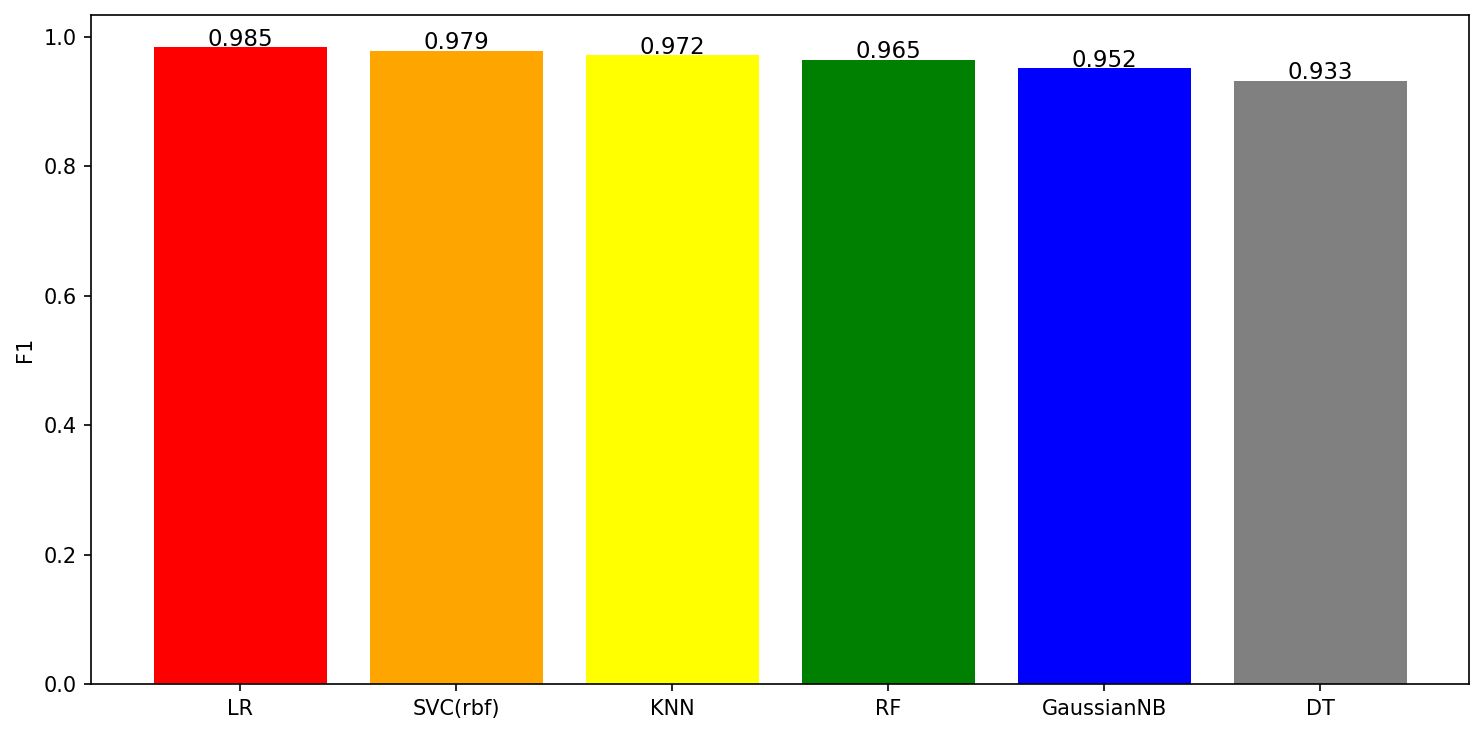
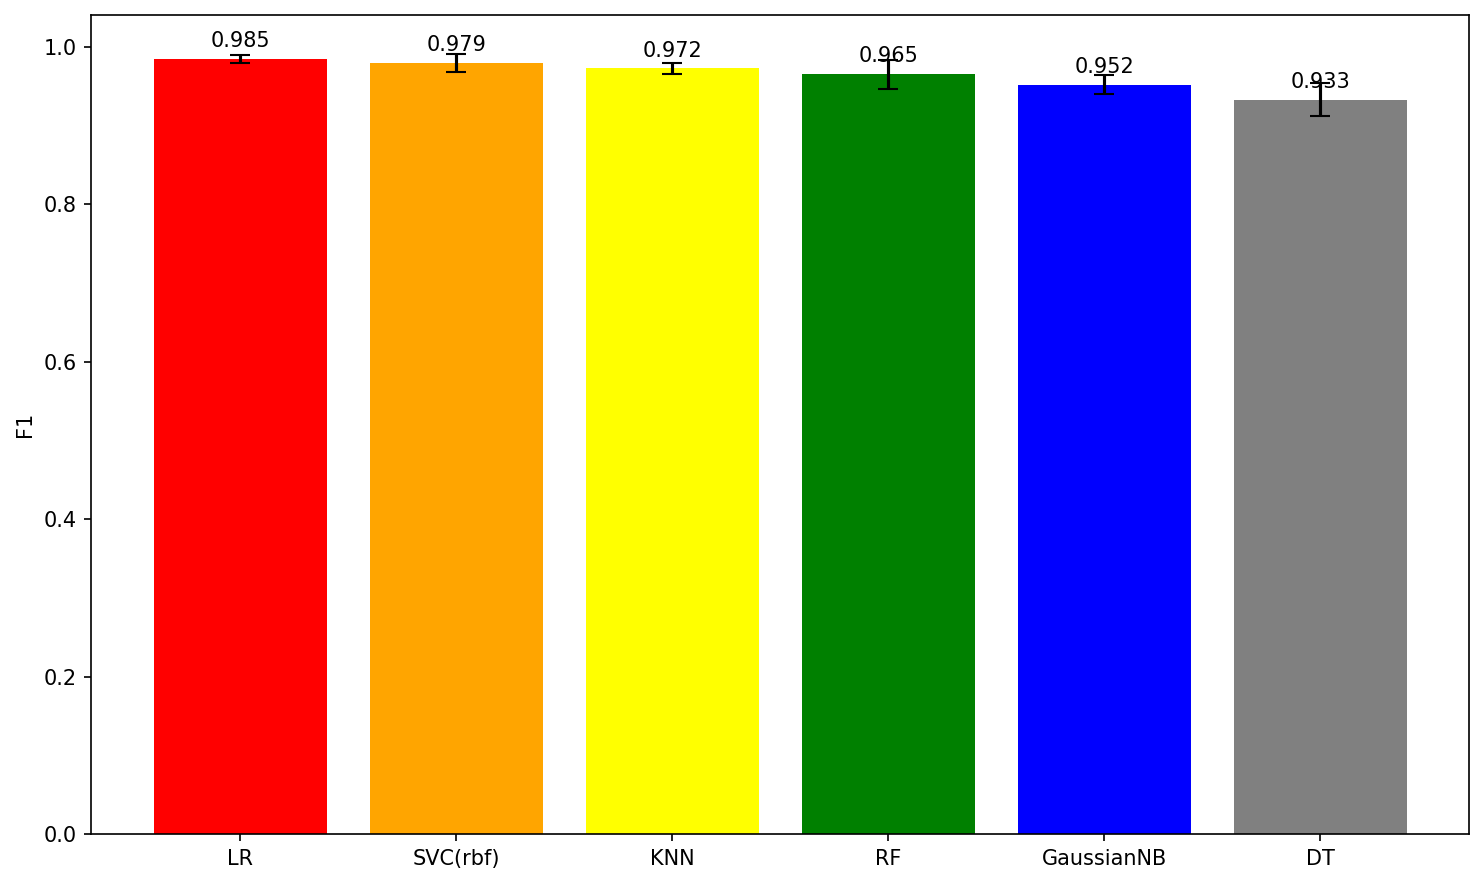
11 revised & 12 ridege/lasso

diff --git a/sklearn/sklearn12 lr+.py b/sklearn/sklearn12 lr+.py
@@ -1,0 +1,38 @@
+from sklearn.datasets import load_diabetes
+from sklearn.preprocessing import StandardScaler
+from sklearn.linear_model import Ridge, LinearRegression
+import numpy as np
+from sklearn.linear_model import Lasso
+
+#ex1: Ridge压缩系数
+X, y = load_diabetes(return_X_y=True)
+Xs = StandardScaler().fit_transform(X)
+lr = LinearRegression().fit(Xs, y)
+print(f'LR max |coef|: {abs(lr.coef_).max():.1f}')#.coef_是系数的数组
+for alpha in [0.01, 0.1, 1, 10, 100]:#0.01系数max abs =37.6，100时21.4
+    ridge = Ridge(alpha=alpha).fit(Xs, y)
+    nz = np.sum(np.abs(ridge.coef_) > 1e-6)
+    print(f'alpha={alpha:6.1f}: max|coef|={abs(ridge.coef_).max():.1f}, all {nz} non-zero')
+#ex2
+for alpha in [0.01, 0.1, 1, 10, 100]:#0.01剩10个完整，1剩7个
+    lasso = Lasso(alpha=alpha, max_iter=10000).fit(Xs, y)
+    nz = np.sum(np.abs(lasso.coef_) > 1e-6)
+    print(f'alpha={alpha:6.2f}: R²={lasso.score(Xs, y):.4f}, non-zero={nz}/10')
+#ex3
+import matplotlib.pyplot as plt
+models={
+    'lr':LinearRegression().fit(Xs, y),
+    'ridge1':Ridge(alpha=1).fit(Xs, y),
+    'lasso1':Lasso(alpha=1,max_iter=10000).fit(Xs, y),
+}
+
+fig, axes = plt.subplots(1, 3, figsize=(14, 4))
+for ax, (name, coef) in zip(axes, models.items()):
+    colors = ['blue' if c > 0 else 'red' for c in coef.coef_]
+    ax.bar(range(10), coef.coef_, color=colors)
+    ax.grid(alpha=0.5)
+fig.suptitle('LR vs Ridge vs Lasso', fontsize=15)
+fig.tight_layout()
+
+plt.savefig('12_lr_ridge_lasso_vs.png', dpi=150, bbox_inches='tight', facecolor='none')
+plt.show()